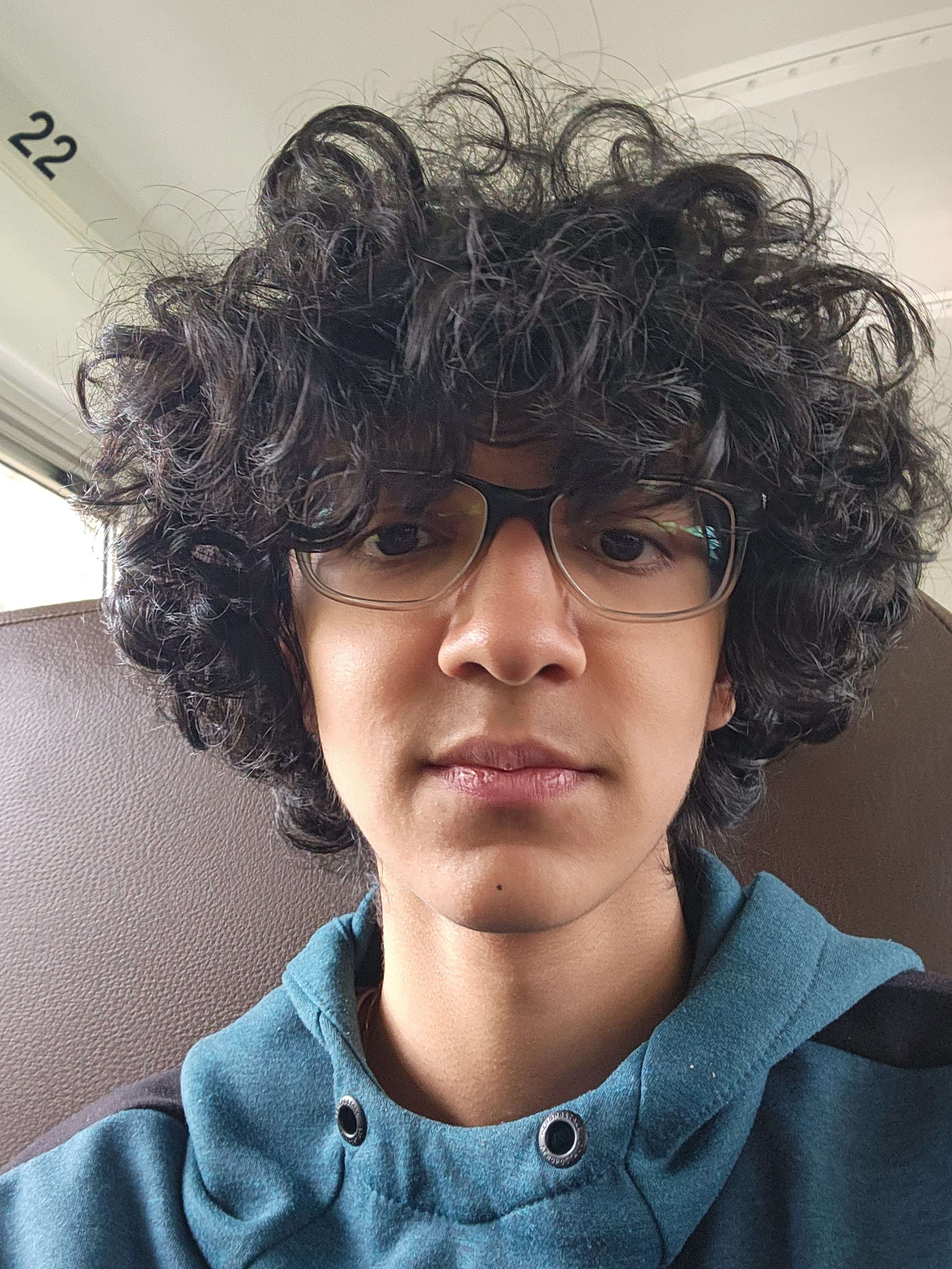
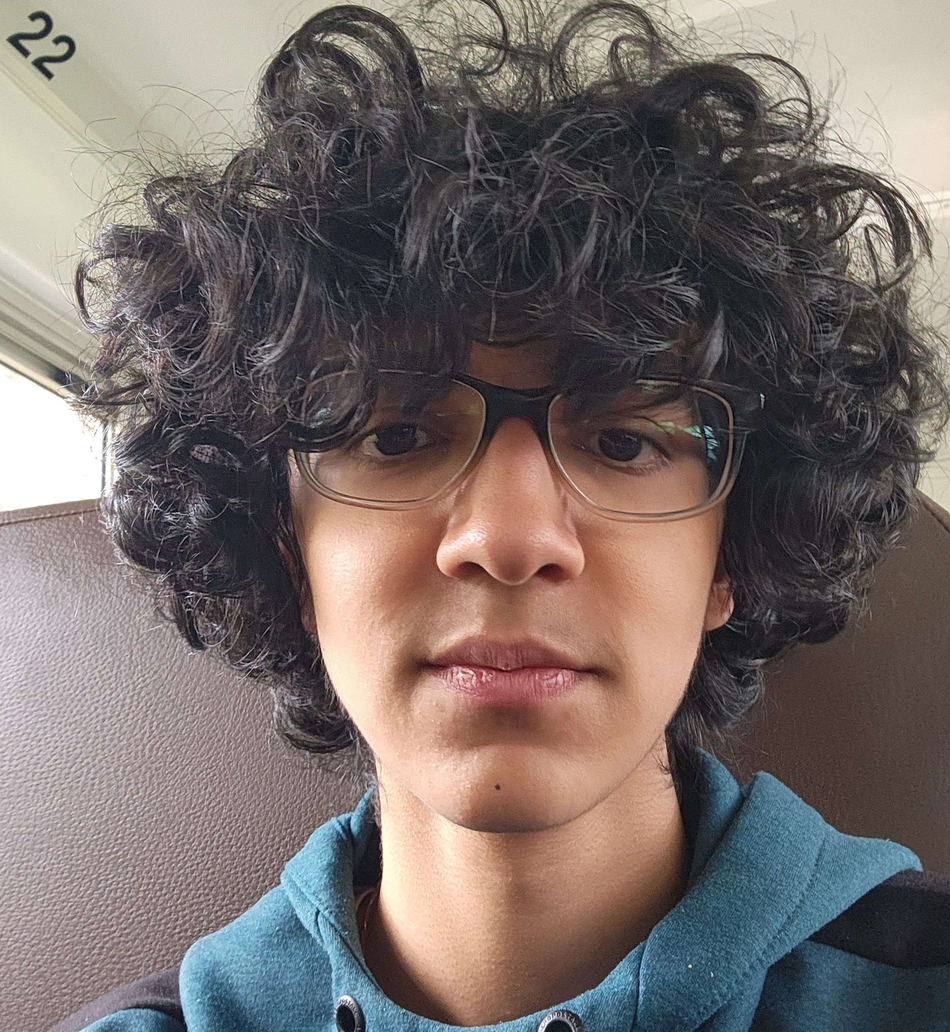
final changes updated

diff --git a/index.html b/index.html
@@ -3,10 +3,10 @@
 
 <head>
     <meta charset="utf-8">
-    <title>Chesspire Homepage</title>
+    <title>Chesspire</title>
      <!-- Favicon -->
     <link href="favicon.ico" rel="icon">
-    <meta name="description" content = "Chesspire is a nonprofit organization dedicated to fostering
+    <meta name="description" content = "Chesspire is a not-for-profit organization dedicated to fostering
      the development of crucial real-life skills like problem solving and decision making through the game of chess"/>
 
     <!-- Google Web Fonts -->
@@ -40,7 +40,7 @@
     <div class="container-fluid position-relative p-0">
         <nav class="navbar navbar-expand-lg navbar-light px-4 px-lg-5 py-3 py-lg-0">
             <a href="" class="navbar-brand p-0">
-                <h1 class="text-primary m-0"><i class="fa fa-trophy me-3"></i>Chesspire</h1>
+                <h1 class="text-primary m-0"><img class="img-fluid" src="images/logo.png" style="max-height: 170px; max-width: 170px;" alt="">Chesspire</h1>
             </a>
             <button class="navbar-toggler" type="button" data-bs-toggle="collapse" data-bs-target="#navbarCollapse">
                 <span class="fa fa-bars"></span>
@@ -105,7 +105,7 @@
                             <p class="mb-0"><i class="fa fa-arrow-right text-primary me-2"></i>Pittsburgh based</p>
                         </div>
                     </div>
-                    <p class="mb-0"><i class="fa fa-school fa-xl text-dark me-2"></i>We are having our first session on <span class="text-primary">June 12-16th</span> at <span class="text-primary">North Allegheny Intermediate 
+                    <p class="mb-0"><i class="fa fa-school fa-xl text-dark me-2"></i>We are having our next session on <span class="text-primary">June 12-16th</span> at <span class="text-primary">North Allegheny Intermediate 
                         High School</span> from <span class="text-primary">8:00-11:00 AM</span></p>
                     <a class="btn btn-primary rounded-pill  py-3 px-5 mt-2" href="https://forms.gle/yoviyrepkEHDgihq5">Sign Up!</a>
                     <!-- <a class="btn btn-primary rounded-pill  py-3 px-5 mt-2" href="">Volunteer</a>
@@ -208,7 +208,7 @@
                         they realized that there wasn’t a big chess community in the suburbs like there were in central Pittsburgh and other big cities 
                         where chess tournaments were held. In the suburbs and local communities, chess clubs and communities have been few and far between. 
                         Furthermore, chess education is an effective way to develop crucial life skills to underprivileged and underserved communities for free.
-                         They set out on a mission to foster the development of crucial real-life skills like problem solving and decision making at a young age 
+                         They set out on a mission to foster the development of essential real-life skills like problem-solving and decision-making at a young age 
                          by spreading the love of chess with the creation of a supporting community. 
                     </p>
                 </div>
@@ -219,7 +219,7 @@
                 <div class="col-lg-4 col-md-6 wow fadeInUp" data-wow-delay="0.1s">
                     <div class="package-item">
                         <div class="overflow-hidden">
-                            <img class="img-fluid" src="images/haresh.webp" style="max-height: 400px; max-width: 400px;"  alt="">
+                            <img class="img-fluid" src="images/haresh.jpg" style="max-height: 400px; max-width: 400px;"  alt="">
                         </div>
                         <div class="d-flex border-bottom">
                             <small class="flex-fill text-center border-end py-2"><i class="fa fa-chalkboard-user text-primary me-2"></i>Enjoys Teaching</small>
@@ -229,8 +229,12 @@
                         <div class="text-center p-4">
                             <h3 class="mb-0">Haresh Muralidharan</h3>
                             
-                            <p>Haresh Muralidharan is a highschool sophomore who has a passion for Chess, STEM, business. He has a variety of hobbies ranging from reading books to learning languages to Taekwondo, and is currently a second degree black belt. 
-                                He is an avid tournament chess player, having won many interstate tournaments and having played interntationally as well. As a lifelong learner with a passion for teaching, he wanted to spread crucial life skills such as problem-solving and decision making through the rich game of chess. </p>
+                            <p>Haresh Muralidharan is a highschool sophomore who has a passion for Chess, STEM, business. He has a variety of hobbies 
+                                ranging from reading books to learning various languages to Taekwondo, in which he is currently a second-degree black belt. 
+                                His accomplishments include winning 15th place nationally in Science Bowl and working on creating a AI-focused documentary in partnership with SLB Radio.  
+                                He is an avid tournament chess player, having won many interstate tournaments and having played interntationally as well. 
+                                As the president of his school chess club, he has run many tournaments, including an official rated ones as a USCF-certified club tournament director.
+                                As a lifelong learner with a passion for teaching, he wanted to spread crucial life skills such as problem-solving and decision making through the rich game of chess. </p>
                             <div class="d-flex justify-content-center mb-2">
                                 <!-- <a href="#" class="btn btn-sm btn-primary px-3 rounded-pill " style="border-radius: 30px 0 0 30px;">Read More</a> -->
                             </div>
@@ -251,11 +255,12 @@
                             <h3 class="mb-0">Kaartic Muralidharan</h3>
                           
                             <p>Kaartic Muralidharan has a wide range of interests. He has been interested in science since a young age. 
-                                He authored a book called <a href ="https://www.amazon.com/Power-Energy-Kaartic-Muralidharan/dp/B0BW3BDJGM">Power of Energy</a>  on the different types of renewable energy. 
-                                He enjoys spending time outside and loves to bike. His biking adventures allowed him to get familiar with the geography, 
-                                another one of his interests, of his neighborhood. He also enjoys making things on his own, like various real world contraptions to websites.
-                                 As an avid chess player, he has participated in many chess tournaments and won various prizes in them. 
-                                 He hopes to spread his knowledge and passion for teaching chess through this organization.
+                                He authored a book called <a href ="https://www.amazon.com/Power-Energy-Kaartic-Muralidharan/dp/B0BW3BDJGM">Power of Energy</a> 
+                                on the different types of renewable energy. He enjoys spending time outside and loves to bike. 
+                                His biking adventures allowed him to get familiar with the geography, another one of his interests, of his neighborhood. 
+                                He also enjoys making things on his own, ranging from various real world contraptions to websites. 
+                                As an avid chess player, he has participated in many chess tournaments and won various prizes in them. 
+                                He hopes to spread his knowledge and passion for teaching chess through Chesspire.
                             </p>
                             <div class="d-flex justify-content-center mb-2">
                                 <!-- <a href="#" class="btn btn-sm btn-primary px-3 rounded-pill " style="border-radius: 30px 0 0 30px;">Read More</a> -->
@@ -378,7 +383,7 @@
                 <div class="col-lg-3 col-md-6 wow fadeInUp" data-wow-delay="0.1s">
                     <div class="team-item">
                         <div class="overflow-hidden">
-                            <img class="img-fluid" src="images/haresh.webp" style="max-height: 300px; max-width: 300px  ;" alt="">
+                            <img class="img-fluid" src="images/haresh.jpg" style="max-height: 300px; max-width: 300px  ;" alt="">
                         </div>
                         <div class="position-relative d-flex justify-content-center" style="margin-top: -19px;">
                             <!-- <a class="btn btn-square mx-1" href=""><i class="fab fa-facebook-f"></i></a> -->
@@ -411,7 +416,7 @@
                 <div class="col-lg-3 col-md-6 wow fadeInUp" data-wow-delay="0.5s">
                     <div class="team-item">
                         <div class="overflow-hidden">
-                            <img class="img-fluid" src="images/praneeth.webp" style="max-height: 300px; max-width: 300px;" alt="">
+                            <img class="img-fluid" src="images/praneeth.jpg" style="max-height: 300px; max-width: 300px;" alt="">
                         </div>
                         <div class="position-relative d-flex justify-content-center" style="margin-top: -19px;">
                             <!-- <a class="btn btn-square mx-1" href=""><i class="fab fa-facebook-f"></i></a>
@@ -498,7 +503,7 @@
                 <div class="col-lg-3 col-md-6 wow fadeInUp" data-wow-delay="0.7s">
                     <div class="team-item">
                         <div class="overflow-hidden">
-                            <img class="img-fluid" src="images/person.png" style="max-height: 400px; max-width: 300px;" alt="">
+                            <img class="img-fluid" src="images/avni.jpg" style="max-height: 400px; max-width: 300px;" alt="">
                         </div>
                         <div class="position-relative d-flex justify-content-center" style="margin-top: -19px;">
                             <!-- <a class="btn btn-square mx-1" href=""><i class="fab fa-facebook-f"></i></a>
@@ -515,7 +520,7 @@
                 <div class="col-lg-3 col-md-6 wow fadeInUp" data-wow-delay="0.7s">
                     <div class="team-item">
                         <div class="overflow-hidden">
-                            <img class="img-fluid" src="images/jason.webp" style="max-height: 400px; max-width: 300px;" alt="">
+                            <img class="img-fluid" src="images/jason.jpg" style="max-height: 400px; max-width: 300px;" alt="">
                         </div>
                         <div class="position-relative d-flex justify-content-center" style="margin-top: -19px;">
                             <!-- <a class="btn btn-square mx-1" href=""><i class="fab fa-facebook-f"></i></a>
